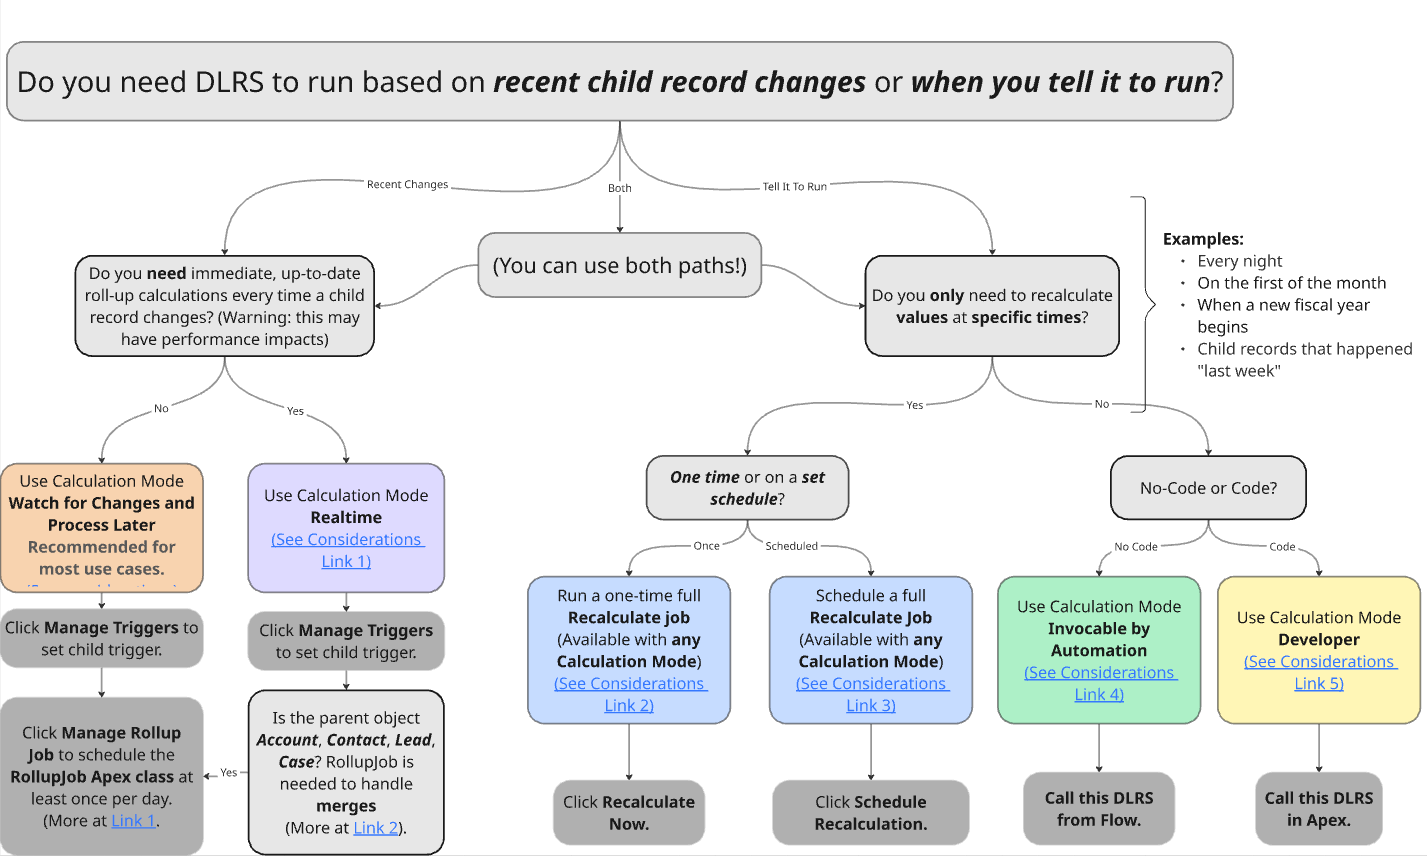
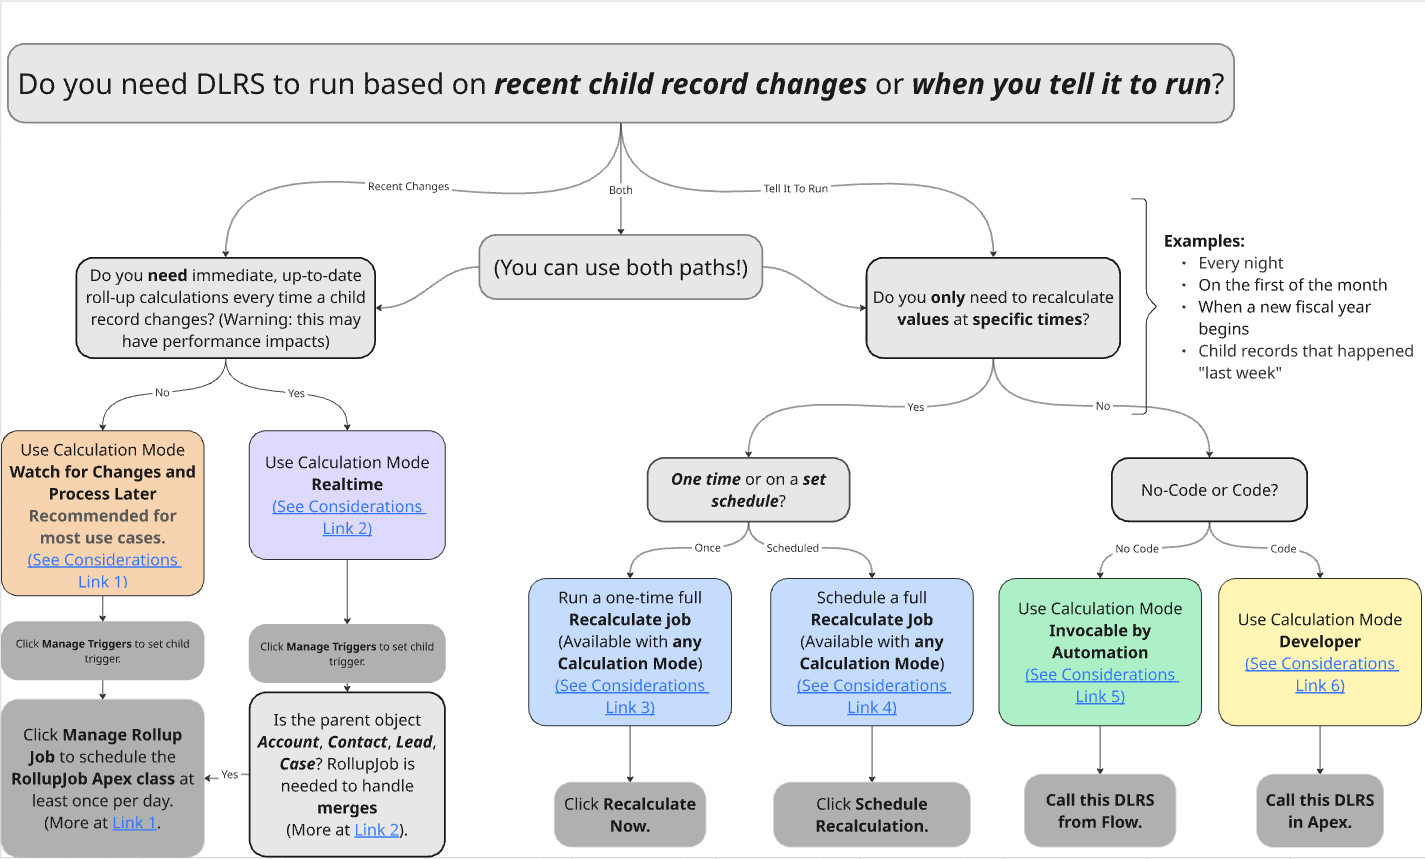
Update

diff --git a/docs/index.md b/docs/index.md
@@ -35,13 +35,14 @@ Additionally, the metrics available with RSFs, are limited to sum, minimum value
 ![Logo](assets/images/flowchart.png)
 
 **Sorry we couldn't get clickable links into the image! Use these**:
-- [Link 1](https://sfdo-community-sprints.github.io/DLRS-Documentation/User%20Guide/scheduling_rollups_v2_21.html#watch-for-changes-and-process-later-calculation-mode)
+- [Link 1](https://sfdo-community-sprints.github.io/DLRS-Documentation/Architecture/calculates.html#considerations-for-watch-for-changes-and-process-later)
 - [Link 2](https://sfdo-community-sprints.github.io/DLRS-Documentation/User%20Guide/Merging.html)
 - [Considerations Link 1](https://sfdo-community-sprints.github.io/DLRS-Documentation/Architecture/calculates.html#considerations-for-realtime)
-- [Considerations Link 2](https://sfdo-community-sprints.github.io/DLRS-Documentation/Architecture/calculates.html#considerations-for-recalculate-nowschedule-recalculation)
+- [Considerations Link 2](https://sfdo-community-sprints.github.io/DLRS-Documentation/Architecture/calculates.html#considerations-for-realtime)
 - [Considerations Link 3](https://sfdo-community-sprints.github.io/DLRS-Documentation/Architecture/calculates.html#considerations-for-recalculate-nowschedule-recalculation)
-- [Considerations Link 4](https://sfdo-community-sprints.github.io/DLRS-Documentation/Architecture/calculates.html#considerations-for-invocable-by-automation)
-- [Considerations Link 5](https://sfdo-community-sprints.github.io/DLRS-Documentation/Architecture/calculates.html#considerations-for-developer)
+- [Considerations Link 4](https://sfdo-community-sprints.github.io/DLRS-Documentation/Architecture/calculates.html#considerations-for-recalculate-nowschedule-recalculation)
+- [Considerations Link 5](https://sfdo-community-sprints.github.io/DLRS-Documentation/Architecture/calculates.html#considerations-for-invocable-by-automation)
+- [Considerations Link 6](https://sfdo-community-sprints.github.io/DLRS-Documentation/Architecture/calculates.html#considerations-for-developer)
 
 ## Features Summary
 
